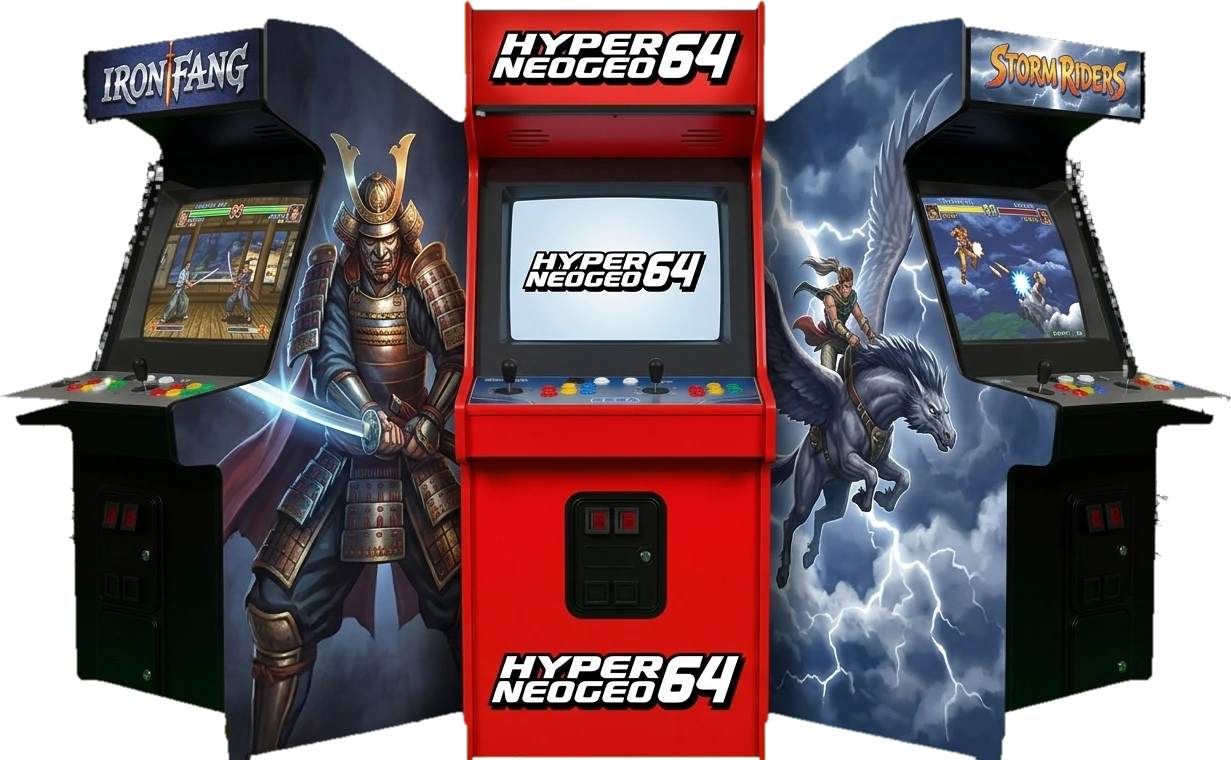
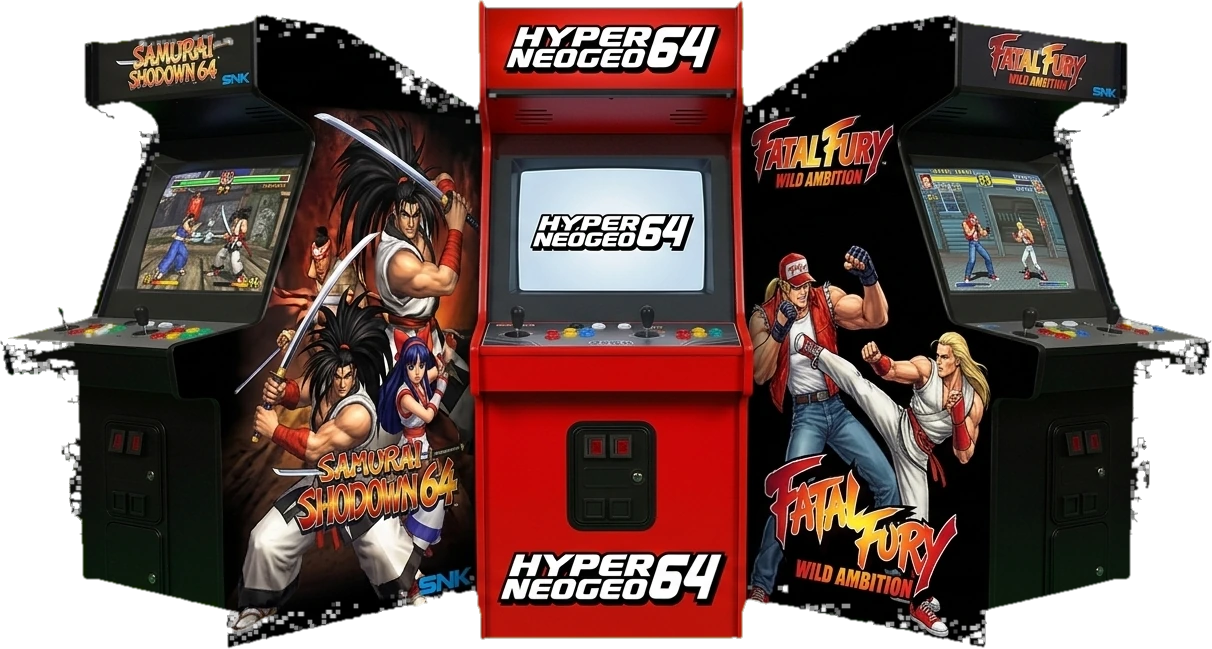
neogeo64: side cabinets now show real games (Samurai Shodown 64, Fatal Fury Wild Ambition)
Claude-Session: https://claude.ai/code/session_01LEK4aEijtWqzGzXe9pLeKc

diff --git a/NIGHTLY_RUN.md b/NIGHTLY_RUN.md
@@ -1,6 +1,6 @@
-# Iconic TPN - nightly run (FIVE systems a night)
+# Iconic TPN - nightly run (3 systems, up to 5 if going well)
 
-Scheduled task brief. Each night, finish FIVE systems to the agreed standard (superseded by the 2026-10-09 update at the end). Original wording: three, and if those three went well (no more than one regeneration each, no blockers, usage and time left), carry on and finish up to FIVE systems in total (user request 2026-10-07); do one full set of records, zip and NAS sync at the end covering all of them, but write the log entry and sync after the third system as a safety net. If anything goes wrong, stop at the last finished system and log how far you got. Then write a report. Order and popularity do not matter.
+Scheduled task brief. Each night, finish THREE systems to the agreed standard. If those three went well (no more than one regeneration each, no blockers, usage and time left), carry on and finish up to FIVE systems in total (user request 2026-10-07); do one full set of records, zip and NAS sync at the end covering all of them, but write the log entry and sync after the third system as a safety net. If anything goes wrong, stop at the last finished system and log how far you got. Then write a report. Order and popularity do not matter.
 
 ## Locations
 - Working theme: ~/tpn-build/iconic-tpn (scripts in _tools, python env ~/tpn-build/venv)
@@ -23,7 +23,7 @@ Take any 3 unticked systems from TODO.md sections B1, C, D or E.
 1. Research its real games (web search). Pick one game ORIGINAL to that machine. Fan-art style is fine (updated 2026-10-05), but NEVER use a famous character or mascot on any system other than its own (no Samus on anything but Nintendo, no Mario/Sonic elsewhere, etc.). Use original characters instead. Gemini often copies the hero from the style reference (the SNES reference is Super Metroid), so check every background for this.
 2. Background (Gemini in Chrome, NEW chat per image): attach the SNES style reference (open it in a tab, screenshot, upload_image to Gemini's file input), paste the STANDARD BLOCK from PROMPTS.md with your scene. Check: one large hero centre-right, left third dark/quiet, calm bottom, no text/logos/UI/number plates. Fix with small follow-up requests in the same chat. Download full size (never screenshots, never upscale).
 3. System image:
-   - Arcade boards (UPDATED 2026-10-08, agreed with the user): the system image is a tight THREE-CABINET GROUP in the style of the OG theme's cps2 image (OG file: iconic-es-main/_inc/controllers/cps2.webp on the NAS; also arcade, atomiswave, naomi, triforce). Base the cabinets on the machine used for the system's MOST FAMOUS game. Upright cabinets: CENTRE = the system's own branded cabinet in full bright colour, facing the camera, in front, with the system logo on the marquee and lower front and a boot screen showing the system logo; LEFT and RIGHT = two real, well-known games of that system, black-bodied cabinets, glossy black bodies, as rich, bright and fully saturated as the centre one (NEVER faded, grey or washed out - user feedback 2026-10-10), each with its own full-height side vinyl, own marquee text and gameplay on screen, standing slightly behind the centre one, turned about 30 degrees outward, overlapping behind its edges, side panels touching, NO gaps. Sit-down/deluxe boards (Ringwide, Sega Nu, segaalls, segare, segaer etc.) keep a single sit-down cabinet and are NOT turned into groups. Gemini workflow: attach (1) the OG cps2 image on light grey as layout reference, (2) the existing cabinet on light grey (shape), (3) the system logo, (4) the background; green (#00FF00) background, no shadow, hard clean edges; cut out with _tools/cutout_green.py. Reference prompt that worked (segasystem32): see PROMPTS.md "Arcade three-cabinet groups". Always confirm the downloaded file is NEW (check ~/Downloads timestamps) before cutting out.
+   - Arcade boards (UPDATED 2026-10-08, agreed with the user): the system image is a tight THREE-CABINET GROUP in the style of the OG theme's cps2 image (OG file: iconic-es-main/_inc/controllers/cps2.webp on the NAS; also arcade, atomiswave, naomi, triforce). Base the cabinets on the machine used for the system's MOST FAMOUS game. Upright cabinets: CENTRE = the system's own branded cabinet in full bright colour, facing the camera, in front, with the system logo on the marquee and lower front and a boot screen showing the system logo; LEFT and RIGHT = two real, well-known games of that system, black-bodied cabinets with slightly faded/muted colours, each with its own full-height side vinyl, own marquee text and gameplay on screen, standing slightly behind the centre one, turned about 30 degrees outward, overlapping behind its edges, side panels touching, NO gaps. Sit-down/deluxe boards (Ringwide, Sega Nu, segaalls, segare, segaer etc.) keep a single sit-down cabinet and are NOT turned into groups. Gemini workflow: attach (1) the OG cps2 image on light grey as layout reference, (2) the existing cabinet on light grey (shape), (3) the system logo, (4) the background; green (#00FF00) background, no shadow, hard clean edges; cut out with _tools/cutout_green.py. Reference prompt that worked (segasystem32): see PROMPTS.md "Arcade three-cabinet groups". Always confirm the downloaded file is NEW (check ~/Downloads timestamps) before cutting out.
    - Computers: flat TOP-DOWN overhead view. If no clean photo, Gemini top-down render from a reference photo (PixN consoles folder or web), green background, no shadow.
    - Consoles/handhelds: a clean photo or Gemini render on green.
    - Verify identity - PixN files are sometimes mislabelled (e.g. an Apogee logo that was really the Elektronika BK).
@@ -64,26 +64,4 @@ previous
 images
 completely...) with explicit percentage positions and sizes.
 
-## Report ending (added 2026-10-09, user request)
-End every report (final message, NIGHTLY_LOG entry and PushNotification) with these three lines, after the Files section:
-- Systems completed: tonight N, total done so far = ticked in TODO.md section A
-- Systems left: unticked in sections B1 + C + D + E of the regenerated TODO.md (say the per-section counts)
-- Nights to complete: systems left divided by 5, rounded up (also give the figure at 3 per night)
-
-## Reserved art
-- sources/_reserved_for_ps3/: fox cub craft-world backgrounds (original character). User wants them used for PS3 and maybe PSP when we reach them. Do not delete.
-
-## Mockup text rule (standing, from Grant 2026-10-09)
-If the systems-column description text runs right onto the logo (as on PS2/PS3), render the mockup with the bottom two lines removed: `MAXLINES=4 python mk.py <sys>`. Default is 6 lines. Apply this by default whenever the text collides with the logo, same as the systems already done.
-
-## Update 2026-10-09 (from Grant): five a night, generic systems first
-- Target FIVE systems every night (still write the log entry and NAS sync after the third as a safety net; stop and log if anything goes wrong).
-- Pick only systems that can be done with fully generic art (no recognizable game, character or brand): in TODO.md the obscure arcade boards and hardware in B1 (e.g. Hikaru, PGM, Zinc, Gaelco, UNIS, RAW Thrills, HyperScan, BEENA, Game Wave, Neo Geo 64, NESiCAxLive 1/2, System-80, IGT slots, Radio, Video Driver, eX-Board, Namco ES3, Monon Color, Super Note Club, TV Games, Konami PC, Fightcade, Screenshots), then the obscure computers/handhelds/pinball/laserdisc in C (BK 0010-01, C16, Max Machine, LaserActive, MSX LaserDisc, Konami LCD, Tiger, Pocket Challenge V2, Zaccaria, Pinball M, Pinball FX 1-3), then the book-art systems in E (BML3, digiBLAST, GameKing 3, M21, System 12, Sega AI, SMC-777, Vii, Wahlap).
-- Leave for Grant (do NOT generate): named-game ports and big-brand systems (2ship, soh, opengoal, pdark, halflife, powerbomberman, clonehero, redriver2, openlara etc.), stores (amazon, eagames, wingog, winpopcap, winbigfish, wingamehouse, pcvr), and iOS, Gundam RX-78, AVGN, Video Game Movies. Grant adds characters himself in Gemini where wanted.
-- Mockups: if the description text runs onto the logo, render with MAXLINES=4 (see the mockup text rule above).
-
-
-## Cabinet group standard (added 2026-10-10, user)
-- CENTRE = the SAME standard upright cabinet shape as the side cabinets (CPS2-style), recoloured in the system's brand colours with the system logo on marquee, lower front and boot screen. Do NOT use the old Carbon/single-cabinet photo as the centre.
-- SIDES = glossy black bodies, fully saturated vivid vinyl contained inside the outline, own marquee text and gameplay. Never faded/grey/washed out.
-- If Gemini returns a white background instead of green, use _tools/cutout_flat.py.
+- STANDING RULE (user, 2026-10-12): the two side cabinets in arcade three-cabinet groups must show REAL, well-known games of that system (real marquee text and side art in the game's style), never invented games. Backgrounds still use original characters only.

diff --git a/TODO.md b/TODO.md
@@ -104,7 +104,7 @@ Every system in the PixN build that the original Iconic theme has no art for, wi
 | - [x] | myvision | My Vision KH-1000 | Master player at floating shogi/mahjong board (Gemini, generic) - installed | custom: My Vision TV, cartridge and console photo (Carbon theme) cropped | custom |  |
 | - [x] | n501 | NUON Enhanced DVD Player / DVD-N501 | Tempest-style tube shooter: golden bat-wing starfighter firing down a neon vortex tunnel at a red crystal enemy (Gemini, original) - installed; name shortened to NUON DVD-N501, hardware type set to console | custom: PixN Carbon NUON console image (Samsung DVD player + controller) used as-is, cut-out | custom |  |
 | - [x] | namco11 | System 11 | Tekken-style martial arts clash (Gemini) - installed | custom: Gemini three-image cabinet (System 32 angle ref + Namco System 11 marquee logo + Tekken-style side art from the background) | custom |  |
-| - [x] | neogeo64 | Hyper Neo Geo 64 | Samurai-duel-style: original white-haired female ronin slashing at a blue oni on a stormy sea-cliff (Gemini, original) - installed | Gemini three-cabinet group (Hyper Neo Geo 64 red centre + IRON FANG and STORM RIDERS side cabinets, original games), green-screen cut-out - installed | custom |  |
+| - [x] | neogeo64 | Hyper Neo Geo 64 | Samurai-duel-style: original white-haired female ronin slashing at a blue oni on a stormy sea-cliff (Gemini, original) - installed | Gemini three-cabinet group (Hyper Neo Geo 64 red centre + Samurai Shodown 64 and Fatal Fury Wild Ambition side cabinets, real games), green-screen cut-out - installed | custom |  |
 | - [x] | ondra | Ondra | Tenebra-style crypt puzzle: wanderer at a cracking rune door (Gemini, original character) - installed | custom: Gemini flat top-down render of the Ondra from a Wikimedia Commons photo (OndraComputer.jpg) | custom |  |
 | - [x] | orao | Orao | Nevidljivi-style invisible presence in a foggy fortress courtyard (Gemini, original character) - installed | custom: Gemini flat top-down render of the Orao from a Wikimedia Commons photo (Orao-IMG 7278.jpg, CC licence) | custom |  |
 | - [x] | p2000t | Philips P2000 | Retro rocket-plane vs mechanical kraken (Gemini) - installed | custom: Gemini flat plan-view render of the P2000T from the Carbon theme photo (3 follow-ups needed for top-down) | custom |  |

diff --git a/CREDITS-TPN.md b/CREDITS-TPN.md
@@ -80,4 +80,4 @@ Per-system sources are listed in _tools/salvage_log.tsv.
 - TV Games (tvgames): background generated with Google Gemini (original astronaut hitting a flaming comet with a neon bat); system image is a generic Gemini plug-and-play joystick; logo cropped from the TPN Carbon icon, sticker-styled.
 - HyperScan (hyperscan): background generated with Google Gemini (original silver-haired duellist summoning a golden dragon from a glowing card; no licensed card game); system image is a Gemini render using a Wikimedia Commons photo as visual reference (check licence if publishing); logo from the TPN Carbon theme, sticker-styled.
 - Advanced Pico BEENA (beena): background generated with Google Gemini (original girl in a yellow raincoat jumping in a rainbow puddle); system image is a Gemini render from a text description (accuracy unverified); logo from the TPN Carbon theme, sticker-styled.
-- Hyper Neo Geo 64 (neogeo64): background generated with Google Gemini (original female ronin and blue oni, inspired by samurai duelling games); three-cabinet system image generated with Google Gemini (the IRON FANG and STORM RIDERS cabinets are invented); logo from the TPN Carbon theme, sticker-styled. Replaces the earlier Samurai Shodown screenshot.
+- Hyper Neo Geo 64 (neogeo64): background generated with Google Gemini (original female ronin and blue oni, inspired by samurai duelling games); three-cabinet system image generated with Google Gemini (side cabinets show the real SNK games Samurai Shodown 64 and Fatal Fury: Wild Ambition; their artwork is Gemini-generated in the games' style); logo from the TPN Carbon theme, sticker-styled. Replaces the earlier Samurai Shodown screenshot.

diff --git a/PROMPTS.md b/PROMPTS.md
@@ -387,3 +387,4 @@ Sit-down systems keep a single sit-down cabinet (user decision).
 - beena - storybook: original girl in a yellow raincoat and red boots jumping into a rainbow puddle splash, dusk meadow. Attempts: v1 had flowers in the left 45 percent, v2 lost the style reference and had a mushroom on the left, v3 accepted (strict "right 45%" composition, style ref attached). Console: Gemini render on green from a text description (no usable photo found), despilled.
 - neogeo64 - Samurai-duel style: original white-haired female ronin slashing at a blue oni with a spiked club on a stormy sea-cliff. Three-cabinet group prompt = the segasystem32 version, recoloured vivid red with the Hyper Neo Geo 64 logo, sides IRON FANG and STORM RIDERS (original), "GLOSSY BLACK, rich, NOT faded" wording; refs = cps2 group, Sega cabinet group, logo, background. Worked first time. The centre control panel still carries a tiny SEGA mark inherited from the shape reference (not visible at theme size).
 - Gemini UI notes: the "+" button needs repeated clicks; after upload the thumbnails can open an image editor (press the back arrow, nothing is saved); click the send arrow if Return does not send.
+- 2026-10-12 neogeo64 redo (user: ALWAYS use real games on the side cabinets): same three-cabinet prompt but "real Hyper Neo Geo 64 game cabinets", LEFT SAMURAI SHODOWN 64 by SNK, RIGHT FATAL FURY WILD AMBITION by SNK, with marquee text and side art described. Gemini produced recognisable marquees and side art first time.

diff --git a/NIGHTLY_LOG.md b/NIGHTLY_LOG.md
@@ -408,3 +408,7 @@ Five systems finished in total: studio2, orao, ondra, n501, pippin.
 - Nights to complete: 13 at 5 per night (21 at 3 per night)
 - 2026-10-12 tvgames: removed a white halo around the joystick cut-out (alpha eroded, light fringe removed). Old cut-out kept as sources/tvgames/tvgames_cab_v1_whitehalo.png.
 - 2026-10-12 tvgames (2nd fix): re-cut the joystick from the raw grey render by flood-filling the grey background and shadow from the outside (white halo and shadow gone); stick and plug tips restored by hand. Earlier cut-outs: tvgames_cab_v1_whitehalo.png, tvgames_cab_v2_greyshadow.png.
+
+- 2026-10-12 neogeo64 redo: the side cabinets now show the real games Samurai Shodown 64 and Fatal Fury: Wild Ambition (user asked for real games on cabinets). Earlier invented-games group kept as sources/neogeo64/neogeo64_cab_v1_invented_games.png (+ _raw). New: neogeo64_cab_realgames_gemini_raw.jpeg and neogeo64_cab_realgames.png (= neogeo64_cab.png). NOTE: earlier groups with invented side games (unis, rawthrills, igspgm/zinc if any) may need redoing with real games.
+- 2026-10-12 tvgames controller: several rounds of cut-out clean-up (white halo, grey shadow, cable streaks, plug holes). Earlier versions in sources/tvgames/tvgames_cab_v1_whitehalo.png, _v2_greyshadow.png, _v3_greystreaks.png.
+- Zip iconic-tpn_20261012_b.zip predates the tvgames and neogeo64 fixes; rebuild before release.
